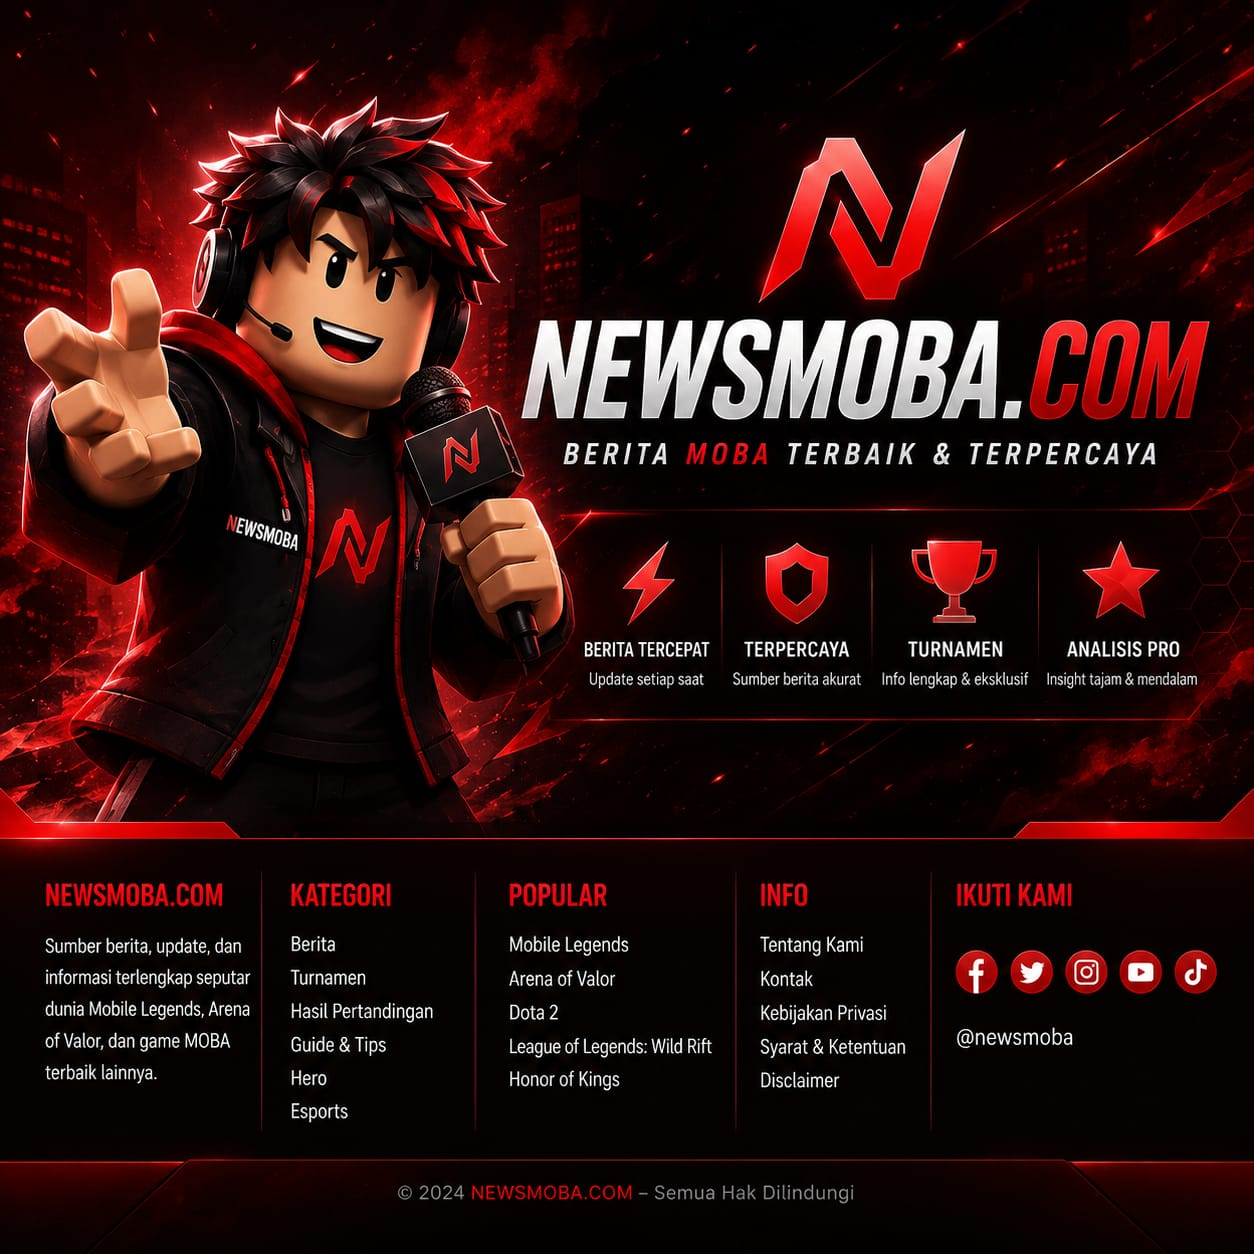
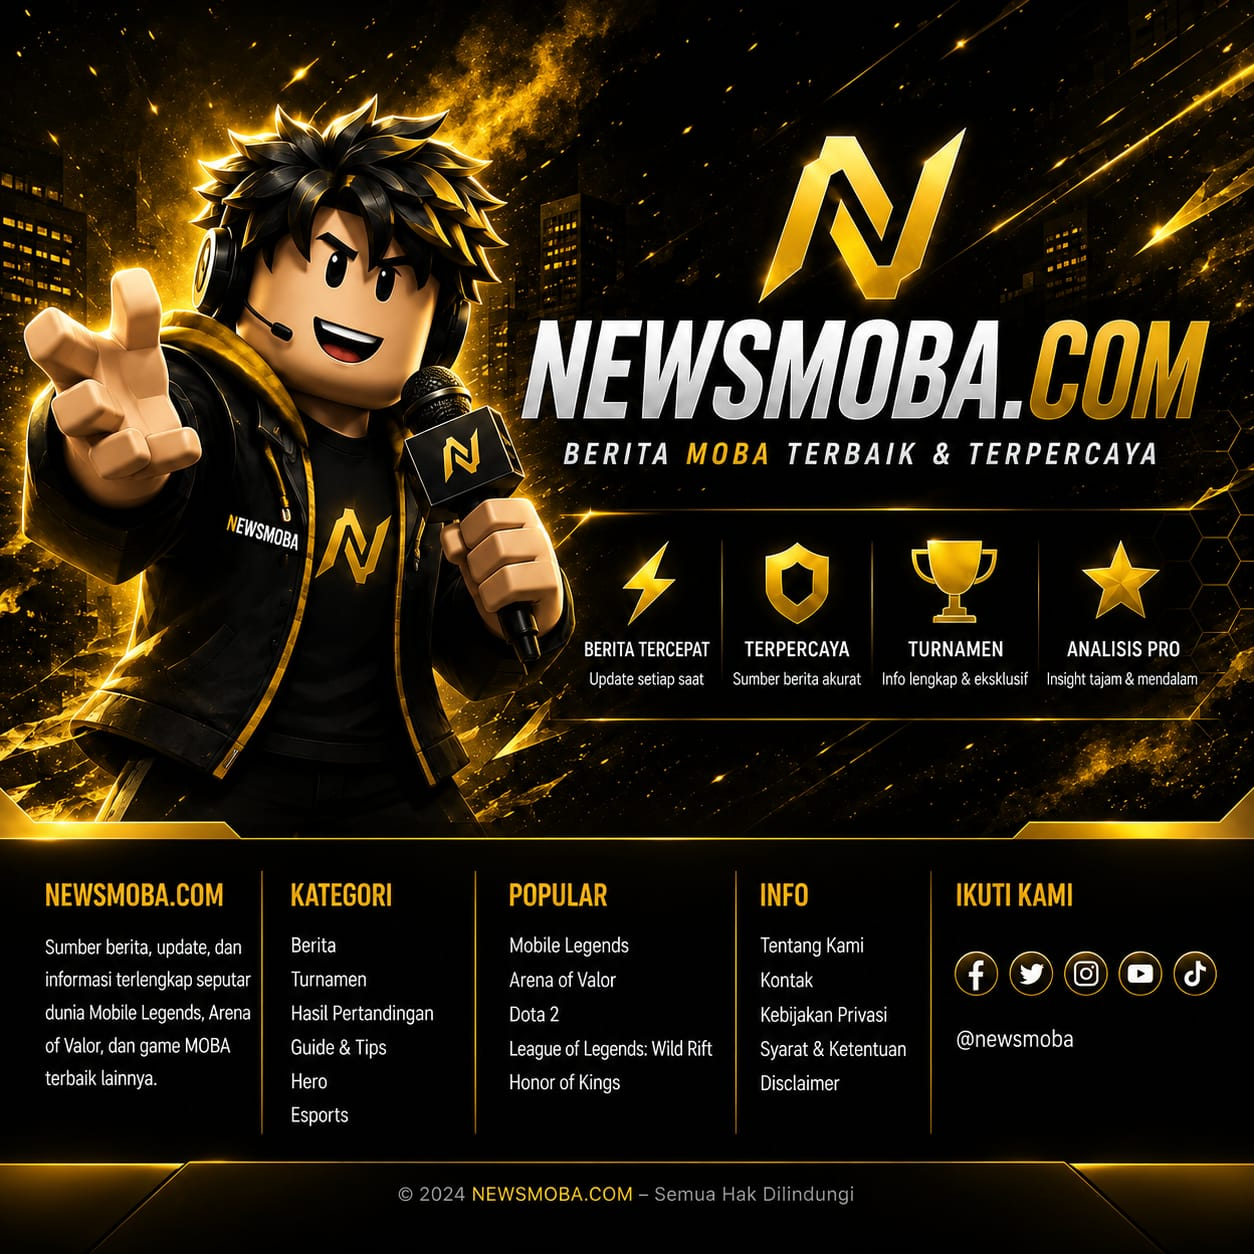
Add files via upload

diff --git a/style.css b/style.css
@@ -17,7 +17,7 @@ html{
 }
 
 body{
-  background:#130101;
+  background:#5e430b;
   color:#ffffff;
   overflow-x:hidden;
 }
@@ -46,19 +46,19 @@ section{
 }
 
 ::-webkit-scrollbar-thumb{
-  background:linear-gradient(#ec1c1c,#d41b1b);
+  background:linear-gradient(#5f6103,#d1d41b);
   border-radius:50px;
 }
 
 /* ================= TOPBAR ================= */
 .topbar{
-  background:linear-gradient(90deg,#1d0707,#0a0914);
+  background:linear-gradient(90deg,#1d1c07,#0a0914);
   color:#d8b4fe;
   text-align:center;
   padding:9px;
   font-size:12px;
   letter-spacing:.5px;
-  border-bottom:1px solid rgba(247, 85, 85, 0.15);
+  border-bottom:1px solid rgba(247, 223, 85, 0.15);
 }
 
 /* ================= HEADER ================= */
@@ -69,7 +69,7 @@ section{
   padding:15px;
   background:rgba(10,10,18,.95);
   backdrop-filter:blur(14px);
-  border-bottom:1px solid rgba(168,85,247,.08);
+  border-bottom:1px solid rgba(247, 217, 85, 0.08);
   position:sticky;
   top:0;
   z-index:999;
@@ -93,7 +93,7 @@ section{
   width:45%;
   height:3px;
   border-radius:50px;
-  background:#ea3333;
+  background:#cfea33;
 }
 
 /* SEARCH */
@@ -110,7 +110,7 @@ section{
   padding:0 16px;
   background:#11111b;
   color:#fff;
-  border:1px solid rgba(255,255,255,.05);
+  border:1px solid rgba(255, 255, 255, 0.05);
   transition:.3s;
 }
 
@@ -119,7 +119,7 @@ section{
 }
 
 .search-box input:focus{
-  border-color:#ea3333;
+  border-color:#ead833;
   box-shadow:0 0 0 4px rgba(147,51,234,.12);
 }
 
@@ -129,11 +129,11 @@ section{
   height:46px;
   border-radius:14px;
   background:#11111b;
-  border:1px solid rgba(255,255,255,.05);
+  border:1px solid rgba(255, 255, 255, 0.05);
   display:flex;
   align-items:center;
   justify-content:center;
-  color:#fc8484;
+  color:#fce684;
   font-size:18px;
 }
 
@@ -162,7 +162,7 @@ section{
 }
 
 .navbar a:hover{
-  color:#fc8484;
+  color:#fcea84;
 }
 
 .navbar a.active{
@@ -177,7 +177,7 @@ section{
   width:0%;
   height:3px;
   border-radius:50px;
-  background:#ea3333;
+  background:#eae733;
   transition:.3s;
 }
 
@@ -204,7 +204,7 @@ section{
   position:relative;
   overflow:hidden;
   border-radius:28px;
-  border:1px solid rgba(247, 85, 85, 0.12);
+  border:1px solid rgba(247, 244, 85, 0.12);
 }
 
 .hero-image img{
@@ -227,8 +227,8 @@ section{
   padding:26px;
   background:
   linear-gradient(to top,
-  rgba(0,0,0,.96),
-  rgba(0,0,0,.55),
+  rgba(0, 0, 0, 0.96),
+  rgba(0, 0, 0, 0.55),
   transparent);
 }
 
@@ -236,8 +236,8 @@ section{
   width:max-content;
   padding:7px 14px;
   border-radius:100px;
-  background:rgba(234, 51, 51, 0.18);
-  border:1px solid rgba(247, 85, 85, 0.2);
+  background:rgba(234, 222, 51, 0.18);
+  border:1px solid rgba(247, 223, 85, 0.2);
   color:#ffd5d5;
   font-size:11px;
   font-weight:600;
@@ -275,7 +275,7 @@ section{
   background:linear-gradient(145deg,#0f0f18,#161625);
   border-radius:22px;
   overflow:hidden;
-  border:1px solid rgba(255,255,255,.05);
+  border:1px solid rgba(255, 255, 255, 0.05);
   transition:.35s;
   position:relative;
 }
@@ -285,7 +285,7 @@ section{
   position:absolute;
   inset:0;
   background:linear-gradient(135deg,
-  rgba(234, 51, 51, 0.12),
+  rgba(234, 222, 51, 0.12),
   transparent);
   opacity:0;
   transition:.3s;
@@ -297,8 +297,8 @@ section{
 
 .news-card:hover{
   transform:translateY(-5px);
-  border-color:rgba(247, 85, 85, 0.25);
-  box-shadow:0 20px 40px rgba(0,0,0,.35);
+  border-color:rgba(247, 177, 85, 0.25);
+  box-shadow:0 20px 40px rgba(0, 0, 0, 0.35);
 }
 
 .news-card img{
@@ -311,7 +311,7 @@ section{
 }
 
 .news-content .category{
-  color:#fc8484;
+  color:#fce084;
   font-size:11px;
   font-weight:700;
 }
@@ -352,7 +352,7 @@ section{
   width:4px;
   height:100%;
   border-radius:50px;
-  background:#ea3333;
+  background:#eae733;
 }
 
 .trending-list{
@@ -371,13 +371,13 @@ section{
   background:#11111a;
   border-radius:22px;
   overflow:hidden;
-  border:1px solid rgba(255,255,255,.05);
+  border:1px solid rgba(255, 255, 255, 0.05);
   transition:.35s;
 }
 
 .trending-item:hover{
   transform:translateY(-4px);
-  border-color:rgba(247, 85, 85, 0.22);
+  border-color:rgba(247, 209, 85, 0.22);
 }
 
 .trending-item img{
@@ -398,7 +398,7 @@ section{
 }
 
 .trending-content span{
-  color:#fc8484;
+  color:#fcf084;
   font-size:11px;
 }
 
@@ -424,7 +424,7 @@ section{
   width:4px;
   height:100%;
   border-radius:50px;
-  background:#ea3333;
+  background:#ead833;
 }
 
 .social-list{
@@ -435,7 +435,7 @@ section{
 
 .social-item{
   background:#101019;
-  border:1px solid rgba(255,255,255,.05);
+  border:1px solid rgba(255, 255, 255, 0.05);
   border-radius:18px;
   padding:15px;
   display:flex;
@@ -446,7 +446,7 @@ section{
 
 .social-item:hover{
   transform:translateY(-4px);
-  border-color:rgba(247, 85, 85, 0.22);
+  border-color:rgba(247, 217, 85, 0.22);
   background:#141420;
 }
 
@@ -506,7 +506,7 @@ section{
 .footer{
   margin-top:30px;
   background:#08080d;
-  border-top:1px solid rgba(255,255,255,.05);
+  border-top:1px solid rgba(255, 255, 255, 0.05);
 }
 
 .footer-container{
@@ -519,7 +519,7 @@ section{
 }
 
 .footer-col h4{
-  color:#fc8484;
+  color:#fce684;
   margin-bottom:12px;
 }
 
@@ -537,7 +537,7 @@ section{
 .footer-bottom{
   text-align:center;
   padding:15px;
-  border-top:1px solid rgba(255,255,255,.05);
+  border-top:1px solid rgba(255, 255, 255, 0.05);
   color:#7c7c89;
   font-size:12px;
 }
@@ -556,13 +556,13 @@ section{
   color:#fff;
   font-size:13px;
   font-weight:500;
-  background:linear-gradient(135deg,#871c1c,#312e81);
+  background:linear-gradient(135deg,#876e1c,#312e81);
   transition:.3s;
 }
 
 .nav-item:hover{
   transform:translateY(-3px);
-  box-shadow:0 12px 25px rgba(149, 29, 29, 0.35);
+  box-shadow:0 12px 25px rgba(149, 127, 29, 0.35);
 }
 
 /* ================= DETAIL PAGE ================= */
@@ -572,7 +572,7 @@ section{
   padding:25px;
   background:#11111a;
   border-radius:28px;
-  border:1px solid rgba(255,255,255,.05);
+  border:1px solid rgba(255, 255, 255, 0.05);
 }
 
 .detail-container img{
@@ -590,7 +590,7 @@ section{
 
 .detail-category{
   display:inline-block;
-  background:#871c1c;
+  background:#876a1c;
   color:#fff;
   padding:7px 14px;
   border-radius:100px;
@@ -615,7 +615,7 @@ section{
 }
 
 .detail-content blockquote{
-  border-left:4px solid #ea3333;
+  border-left:4px solid #ea8533;
   padding-left:16px;
   margin:22px 0;
   color:#c4b5fd;
@@ -646,12 +646,12 @@ section{
   background:#11111a;
   border-radius:18px;
   padding:10px;
-  border:1px solid rgba(255,255,255,.05);
+  border:1px solid rgba(255, 255, 255, 0.05);
   transition:.3s;
 }
 
 .popular-item:hover{
-  border-color:rgba(247, 85, 85, 0.2);
+  border-color:rgba(247, 182, 85, 0.2);
 }
 
 .popular-item img{
@@ -668,7 +668,7 @@ section{
 }
 
 .popular-item span{
-  color:#fc8484;
+  color:#fce084;
   font-size:11px;
 }
 
